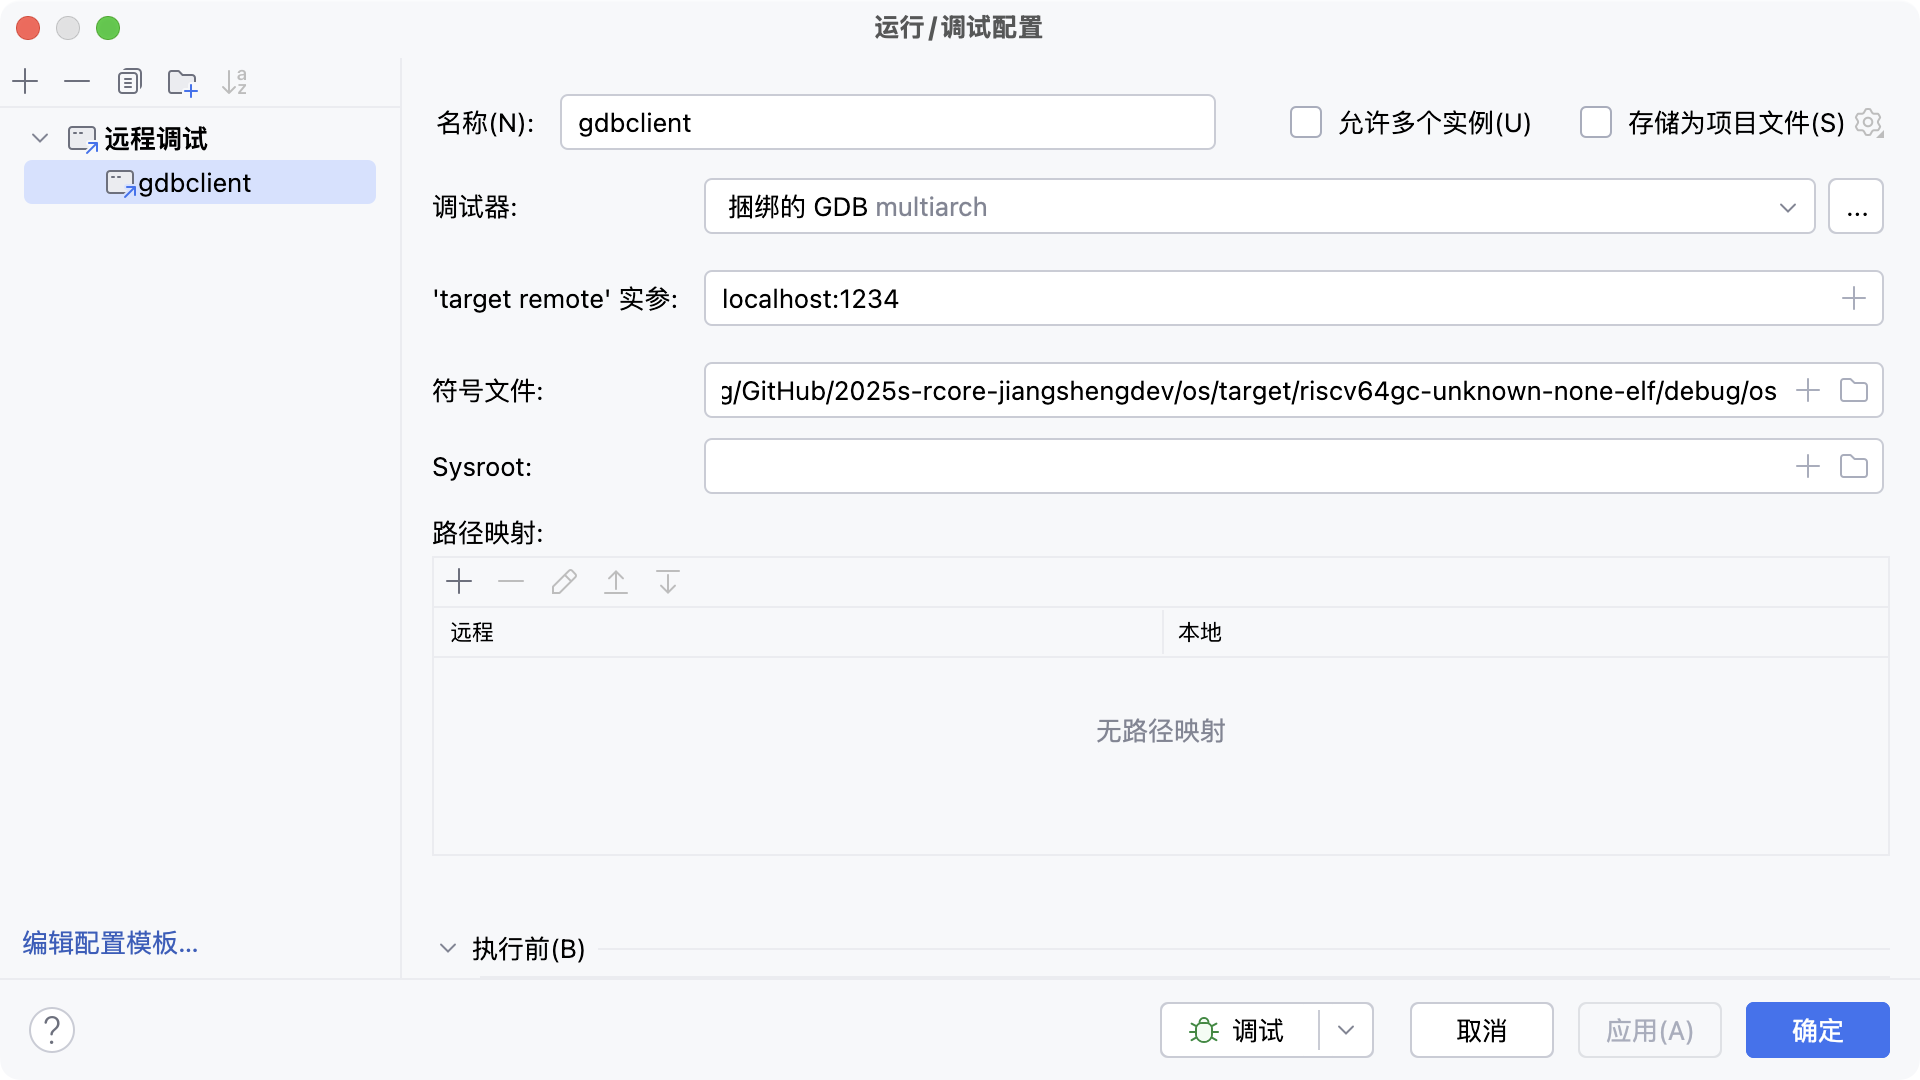
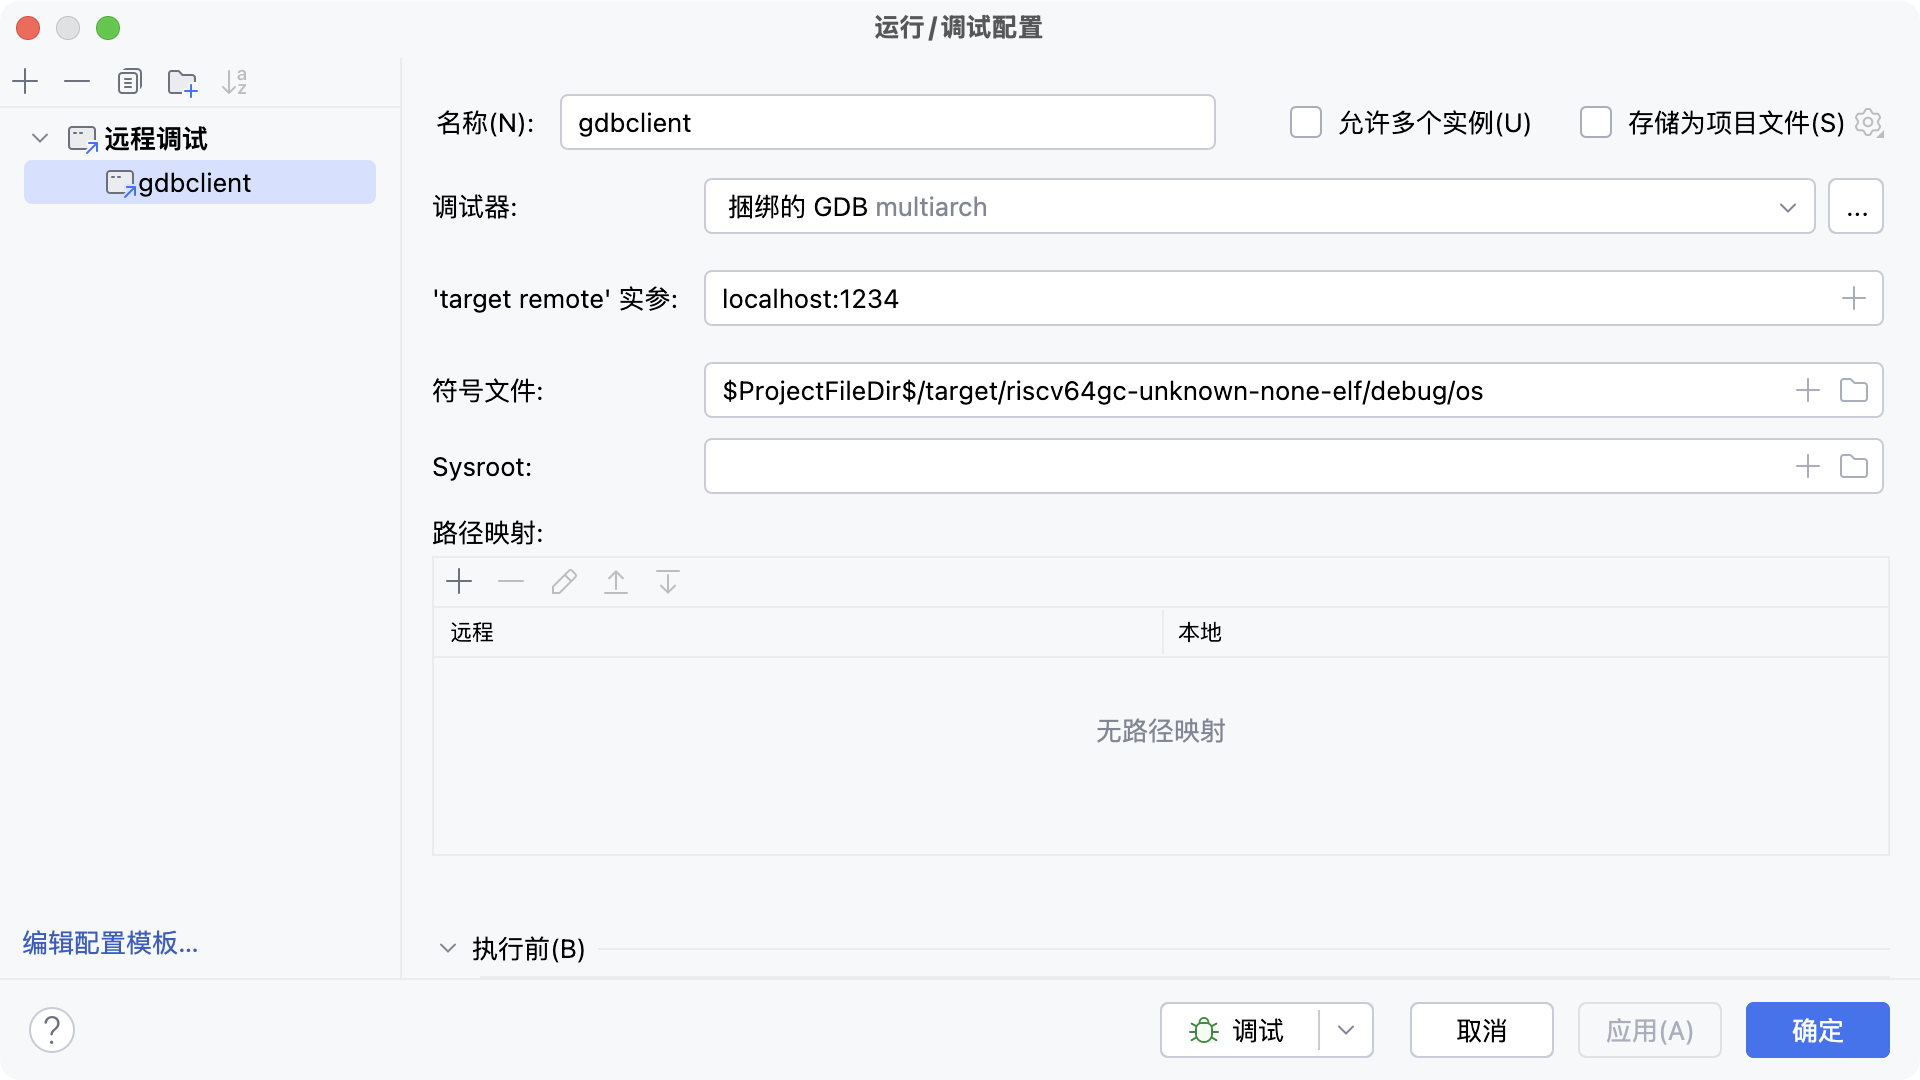
debug

Changed region(s): [[0.375, 0.3361, 0.9062, 0.3972]]

diff --git a/docs/debug/index.md b/docs/debug/index.md
@@ -86,12 +86,15 @@ sidebar_position: 3
 修改完成后，需要执行：
 
 ```shell
+cd <你的实验项目目录>/os
 make build
 ```
 
 以生成带有调试信息的可执行文件。
 
 ## 运行/调试配置
+
+使用 CLion 打开 `<你的实验项目目录>/os` 项目目录。
 
 点击菜单中的“运行 -> 编辑配置...”，打开“运行/调试配置”弹窗。
 
@@ -103,7 +106,9 @@ make build
 
 - 名称：`gdbclient`
 - 'target remote' 实参：`localhost:1234`
-- 符号文件：`<你的实验项目目录>/os/target/riscv64gc-unknown-none-elf/debug/os`
+- 符号文件：`$ProjectFileDir$/target/riscv64gc-unknown-none-elf/debug/os`
+  - 或直接使用绝对路径：
+  - `<你的实验项目目录>/os/target/riscv64gc-unknown-none-elf/debug/os`
 
 ![debug-config-finish.png](image/debug-config-finish.png)
 
@@ -118,7 +123,7 @@ make build
 在项目 os 目录下执行以启动调试服务器端：
 
 ```shell
-cd os
+cd <你的实验项目目录>/os
 make gdbserver
 ```
 
